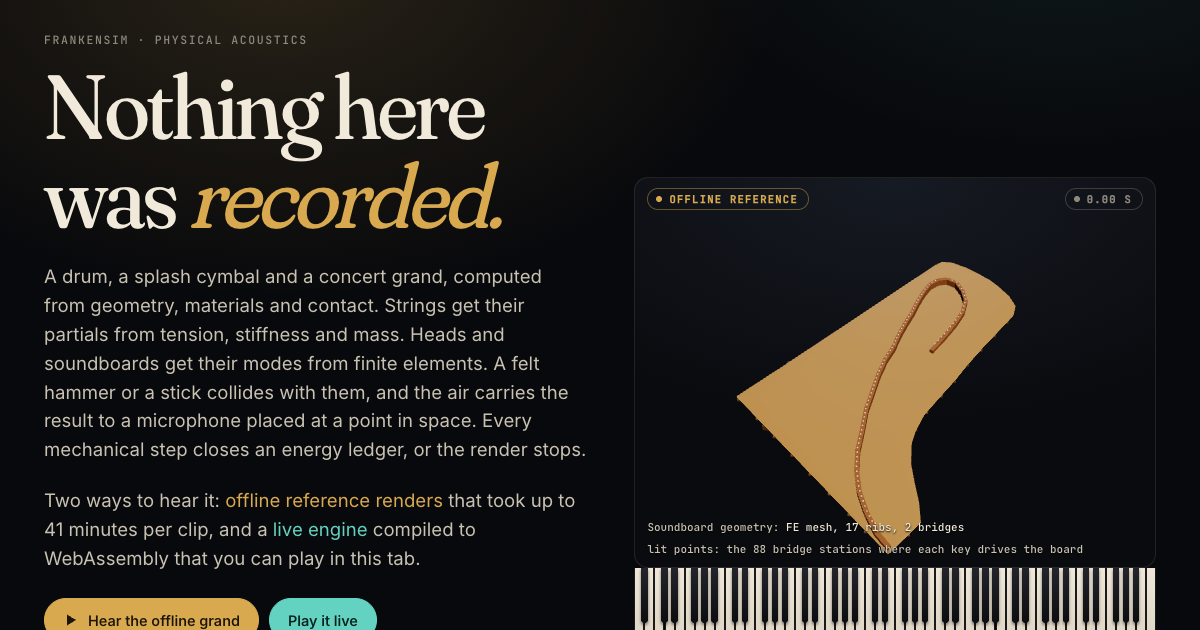
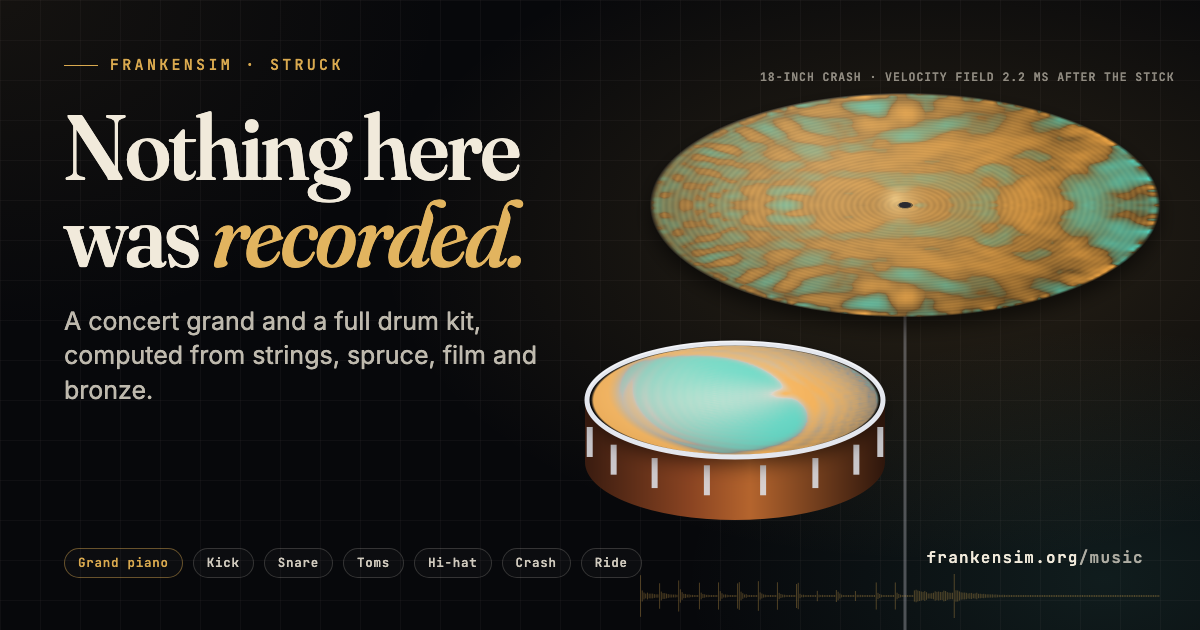
feat(instrument-lab): share cards painted with the solver's own wave fields
og.png (1200x630) and twitter.png (1200x600) show an 18-inch crash and a
snare as the simulation leaves them a few milliseconds after the stick
lands: velocity fields from fs-vkplate (examples/ogfield.rs) with the rigid
motion removed, so only the expanding elastic waves remain, over the site's
headline and the real groove waveform. tools/og_card.py regenerates them;
twitter:image now has its own 2:1 card, and both carry alt text. Live at
frankensim.org/music and frankensim-struck.vercel.app.

diff --git a/apps/instrument-lab/index.html b/apps/instrument-lab/index.html
@@ -14,8 +14,12 @@
   <meta property="og:image" content="%VITE_SITE_URL%og.png" />
   <meta property="og:image:width" content="1200" />
   <meta property="og:image:height" content="630" />
+  <meta property="og:image:alt" content="Nothing here was recorded: an 18-inch crash cymbal and a snare drum painted with their simulated velocity fields a few milliseconds after the stick lands." />
   <meta name="twitter:card" content="summary_large_image" />
-  <meta name="twitter:image" content="%VITE_SITE_URL%og.png" />
+  <meta name="twitter:title" content="Struck — instruments from first principles" />
+  <meta name="twitter:description" content="A drum kit and a concert grand computed from geometry, materials and contact, and graded against real recordings." />
+  <meta name="twitter:image" content="%VITE_SITE_URL%twitter.png" />
+  <meta name="twitter:image:alt" content="An 18-inch crash cymbal and a snare drum painted with their simulated velocity fields." />
 </head>
 <body>
   <a class="skip" href="#main">Skip to content</a>

diff --git a/apps/instrument-lab/tools/og_card.py b/apps/instrument-lab/tools/og_card.py
@@ -1,0 +1,140 @@
+"""Share cards (og.png 1200x630, twitter.png 1200x600) painted with real fs-vkplate fields.
+
+usage:
+  ogfield DIR/fields.json            # crates/fs-vkplate example (OG_TC/OG_TS = snapshot times, s)
+  ffmpeg -i public/audio/kit-groove-ours.m4a -f f32le -ac 1 -ar 8000 DIR/groove.f32
+  uv run --with numpy python tools/og_card.py DIR apps/instrument-lab
+  then screenshot DIR/og.html and DIR/twitter.html at 1200x630 / 1200x600 (headless Chrome,
+  --allow-file-access-from-files) into public/og.png and public/twitter.png.
+"""
+import json, sys, math
+from pathlib import Path
+import numpy as np
+S = Path(sys.argv[1]); L = Path(sys.argv[2])
+fields = json.loads((S / "fields.json").read_text())
+# show the elastic waves: remove each surface's rigid motion (best-fit plane a + b x + c y of the velocity)
+for f in fields.values():
+    X, Y, V = (np.array(f[k]) for k in ("x", "y", "v"))
+    A = np.c_[np.ones_like(X), X, Y]
+    coef, *_ = np.linalg.lstsq(A, V, rcond=None)
+    f["v"] = [float(v) for v in (V - A @ coef)]
+x = np.frombuffer((S / "groove.f32").read_bytes(), "<f4")
+bins = 300
+seg = len(x) // bins
+env = [float(np.abs(x[i * seg:(i + 1) * seg]).max()) for i in range(bins)]
+m = max(env) or 1
+env = [round(e / m, 3) for e in env]
+F = L / "node_modules/@fontsource-variable/fraunces/files"
+I = L / "node_modules/@fontsource-variable/inter/files"
+J = L / "node_modules/@fontsource/jetbrains-mono/files"
+html = r"""<!doctype html><html><head><meta charset="utf-8"><style>
+@font-face { font-family: Fraunces; src: url("file://%FR%/fraunces-latin-full-normal.woff2"); font-style: normal; font-weight: 100 900; }
+@font-face { font-family: Fraunces; src: url("file://%FR%/fraunces-latin-full-italic.woff2"); font-style: italic; font-weight: 100 900; }
+@font-face { font-family: Inter; src: url("file://%IN%/inter-latin-wght-normal.woff2"); font-weight: 100 900; }
+@font-face { font-family: Mono; src: url("file://%JB%/jetbrains-mono-latin-500-normal.woff2"); font-weight: 500; }
+html, body { margin: 0; background: #07080b; }
+#card { position: relative; width: 1200px; height: %H%px; overflow: hidden; background:
+  radial-gradient(900px 520px at 78% 38%, rgba(217,169,79,0.16), rgba(0,0,0,0) 62%),
+  radial-gradient(700px 420px at 92% 92%, rgba(99,210,192,0.10), rgba(0,0,0,0) 60%),
+  radial-gradient(800px 600px at 0% 0%, rgba(140,110,60,0.10), rgba(0,0,0,0) 55%), #07080b; }
+#art { position: absolute; inset: 0; }
+.txt { position: absolute; left: 64px; top: 58px; width: 560px; color: #f1eadb; }
+.eyebrow { font: 500 15px/1 Mono, monospace; letter-spacing: 0.22em; color: #d9a94f; text-transform: uppercase; display: flex; align-items: center; gap: 12px; }
+.eyebrow i { display: inline-block; width: 34px; height: 1px; background: #d9a94f; }
+h1 { font-family: Fraunces, serif; font-weight: 560; font-size: 92px; line-height: 0.95; letter-spacing: -0.02em; margin: 30px 0 0; font-variation-settings: "SOFT" 30, "opsz" 144; }
+h1 em { font-style: italic; color: #e2b45f; font-weight: 520; }
+.sub { font: 400 25px/1.38 Inter, sans-serif; color: rgba(241,234,219,0.78); margin-top: 26px; width: 520px; }
+.chips { position: absolute; left: 64px; bottom: %CHIPB%px; display: flex; gap: 10px; flex-wrap: wrap; width: 640px; }
+.chip { font: 500 12.5px/1 Mono, monospace; letter-spacing: 0.06em; color: rgba(241,234,219,0.86); border: 1px solid rgba(241,234,219,0.18); border-radius: 999px; padding: 8px 13px; background: rgba(255,255,255,0.02); }
+.chip.b { color: #d9a94f; border-color: rgba(217,169,79,0.45); }
+.chip.g { color: #63d2c0; border-color: rgba(99,210,192,0.45); }
+.url { position: absolute; right: 56px; bottom: %URLB%px; font: 500 16px/1 Mono, monospace; letter-spacing: 0.08em; color: rgba(241,234,219,0.7); }
+.url b { color: #f1eadb; font-weight: 500; }
+.cap { position: absolute; font: 500 11.5px/1.3 Mono, monospace; letter-spacing: 0.08em; color: rgba(241,234,219,0.55); text-transform: uppercase; }
+</style></head><body><div id="card">
+<canvas id="art" width="2400" height="%H2%" style="width:1200px;height:%H%px"></canvas>
+<div class="txt"><div class="eyebrow"><i></i>FrankenSim · Struck</div>
+<h1>Nothing here was <em>recorded.</em></h1>
+<div class="sub">A concert grand and a full drum kit, computed from strings, spruce, film and bronze.</div></div>
+<div class="chips"><span class="chip b">Grand piano</span><span class="chip">Kick</span><span class="chip">Snare</span><span class="chip">Toms</span><span class="chip">Hi-hat</span><span class="chip">Crash</span><span class="chip">Ride</span></div>
+<div class="url"><b>frankensim.org</b>/music</div>
+<div class="cap" style="left:%CAPX%px; top:%CAPY%px">18-inch crash · velocity field 2.2 ms after the stick</div>
+</div>
+<script>
+const F = %FIELDS%; const ENV = %ENV%; const H = %H%;
+const cv = document.getElementById('art'); const g = cv.getContext('2d'); g.scale(2, 2);
+function grid(f) { // node lookup on the regular grid
+  const xs = f.x, ys = f.y; let h = Infinity;
+  for (let i = 1; i < xs.length; i++) { const d = Math.abs(xs[i] - xs[i-1]); if (d > 1e-6 && d < h) h = d; }
+  const map = new Map(); let vmax = 0;
+  for (let i = 0; i < xs.length; i++) { map.set(Math.round(xs[i]/h) + ',' + Math.round(ys[i]/h), f.v[i]); vmax = Math.max(vmax, Math.abs(f.v[i])); }
+  return { h, map, vmax, r: f.r };
+}
+function disc(f, cx, cy, rx, ry, base, opts) {
+  const G = grid(f); const W = Math.ceil(rx * 2), Hh = Math.ceil(ry * 2);
+  const img = g.createImageData(W * 2, Hh * 2);
+  for (let py = 0; py < Hh * 2; py++) for (let px = 0; px < W * 2; px++) {
+    const u = (px / 2 - rx) / rx, v = (py / 2 - ry) / ry; const rr = u*u + v*v;
+    if (rr > 1) continue;
+    const X = u * G.r / G.h, Y = -v * G.r / G.h;
+    const i0 = Math.floor(X), j0 = Math.floor(Y), fx = X - i0, fy = Y - j0;
+    const at = (i, j) => G.map.get(i + ',' + j) ?? 0;
+    let val = (1-fx)*(1-fy)*at(i0,j0) + fx*(1-fy)*at(i0+1,j0) + (1-fx)*fy*at(i0,j0+1) + fx*fy*at(i0+1,j0+1);
+    if (opts.hole && rr < opts.hole) continue;
+    const s = Math.sign(val) * Math.pow(Math.min(1, Math.abs(val) / (G.vmax * opts.sat)), 0.55);
+    // base material with radial shading and lathing rings
+    const shade = 0.62 + 0.38 * (1 - rr) + 0.10 * (-u * 0.6 - v * 0.8);
+    const ring = opts.lathe ? 0.06 * Math.sin(Math.sqrt(rr) * 260) : 0;
+    let [r0, g0, b0] = base.map(c => c * (shade + ring));
+    const a = Math.abs(s);
+    const [cr, cg, cb] = s > 0 ? [255, 176, 72] : [80, 220, 200];
+    const k = Math.min(1, a * opts.gain);
+    const o = 4 * (py * W * 2 + px);
+    img.data[o] = r0 * (1 - k) + cr * k; img.data[o+1] = g0 * (1 - k) + cg * k; img.data[o+2] = b0 * (1 - k) + cb * k;
+    const edge = Math.min(1, (1 - Math.sqrt(rr)) * 60);
+    img.data[o+3] = 255 * edge;
+  }
+  const off = document.createElement('canvas'); off.width = W * 2; off.height = Hh * 2;
+  off.getContext('2d').putImageData(img, 0, 0);
+  g.save(); g.shadowColor = 'rgba(0,0,0,0.6)'; g.shadowBlur = 40; g.shadowOffsetY = 18;
+  g.drawImage(off, cx - rx, cy - ry, W, Hh); g.restore();
+  // specular sheen
+  const sh = g.createRadialGradient(cx - rx * 0.35, cy - ry * 0.45, 0, cx - rx * 0.35, cy - ry * 0.45, rx * 0.9);
+  sh.addColorStop(0, 'rgba(255,240,210,' + opts.sheen + ')'); sh.addColorStop(1, 'rgba(255,240,210,0)');
+  g.save(); g.beginPath(); g.ellipse(cx, cy, rx, ry, 0, 0, Math.PI * 2); g.clip(); g.fillStyle = sh; g.fillRect(cx - rx, cy - ry, 2 * rx, 2 * ry); g.restore();
+}
+// faint measurement grid
+g.strokeStyle = 'rgba(241,234,219,0.035)'; g.lineWidth = 1;
+for (let x = 0; x < 1200; x += 40) { g.beginPath(); g.moveTo(x + 0.5, 0); g.lineTo(x + 0.5, H); g.stroke(); }
+for (let y = 0; y < H; y += 40) { g.beginPath(); g.moveTo(0, y + 0.5); g.lineTo(1200, y + 0.5); g.stroke(); }
+// crash cymbal on its stand, then the snare in front
+const CY = %CRASHY%;
+g.strokeStyle = 'rgba(200,200,210,0.35)'; g.lineWidth = 3; g.beginPath(); g.moveTo(905, CY + 10); g.lineTo(905, H); g.stroke();
+disc(F.crash, 905, CY, 255, 112, [176, 128, 62], { sat: 0.45, gain: 0.9, lathe: true, sheen: 0.22, hole: 0.0009 });
+// bell
+const bell = g.createRadialGradient(895, CY - 6, 2, 905, CY, 40); bell.addColorStop(0, 'rgba(255,226,160,0.55)'); bell.addColorStop(1, 'rgba(160,110,50,0)');
+g.fillStyle = bell; g.beginPath(); g.ellipse(905, CY, 44, 19, 0, 0, Math.PI * 2); g.fill();
+g.fillStyle = '#2a2a30'; g.beginPath(); g.ellipse(905, CY, 6, 3, 0, 0, Math.PI * 2); g.fill();
+// snare: shell, hoop, head
+const SX = 735, SY = %SNAREY%, SR = 150, SRY = 58, DEPTH = 62;
+const shell = g.createLinearGradient(SX - SR, 0, SX + SR, 0);
+shell.addColorStop(0, '#3a1c10'); shell.addColorStop(0.35, '#8a4422'); shell.addColorStop(0.55, '#b5652e'); shell.addColorStop(1, '#2e160c');
+g.fillStyle = shell; g.beginPath(); g.ellipse(SX, SY + DEPTH, SR, SRY, 0, 0, Math.PI); g.lineTo(SX - SR, SY); g.ellipse(SX, SY, SR, SRY, 0, Math.PI, 0, true); g.closePath(); g.fill();
+for (let i = 0; i < 8; i++) { const ang = Math.PI * (0.08 + 0.84 * i / 7); const lx = SX - SR * Math.cos(ang); g.fillStyle = 'rgba(225,228,235,0.85)'; g.fillRect(lx - 3, SY + 14 + Math.sin(ang) * SRY * 0.9, 6, 30); }
+disc(F.snare, SX, SY, SR - 6, SRY - 3, [228, 224, 214], { sat: 0.6, gain: 0.8, lathe: false, sheen: 0.18 });
+g.strokeStyle = '#e4e7ee'; g.lineWidth = 5; g.beginPath(); g.ellipse(SX, SY, SR - 2, SRY - 1, 0, 0, Math.PI * 2); g.stroke();
+g.strokeStyle = 'rgba(255,255,255,0.6)'; g.lineWidth = 1.2; g.beginPath(); g.ellipse(SX, SY - 1.5, SR - 2, SRY - 1, 0, Math.PI * 1.05, Math.PI * 1.95); g.stroke();
+// the groove waveform along the bottom
+const WY = H - 34, WH = 22;
+g.fillStyle = 'rgba(217,169,79,0.32)';
+for (let i = 0; i < ENV.length; i++) { const x = 640 + i * (520 / ENV.length); const h = Math.max(1, ENV[i] * WH); g.fillRect(x, WY - h, 520 / ENV.length * 0.6, 2 * h); }
+</script></body></html>"""
+for H, name in ((630, "og.html"), (600, "twitter.html")):
+    s = html.replace("%FR%", str(F)).replace("%IN%", str(I)).replace("%JB%", str(J))
+    s = s.replace("%FIELDS%", json.dumps(fields)).replace("%ENV%", json.dumps(env))
+    s = s.replace("%H2%", str(2 * H)).replace("%H%", str(H))
+    s = s.replace("%CRASHY%", str(205 if H == 630 else 196)).replace("%SNAREY%", str(400 if H == 630 else 382))
+    s = s.replace("%CHIPB%", str(52 if H == 630 else 46)).replace("%URLB%", str(64 if H == 630 else 58))
+    s = s.replace("%CAPX%", "760").replace("%CAPY%", str(70 if H == 630 else 64))
+    (S / name).write_text(s)
+print("ok")

diff --git a/crates/fs-vkplate/examples/ogfield.rs b/crates/fs-vkplate/examples/ogfield.rs
@@ -1,0 +1,41 @@
+//! Velocity fields of the crash and the snare batter shortly after the stick lands (share-image art).
+//! usage: ogfield OUT.json
+use fs_vkplate::*;
+use std::fmt::Write;
+
+fn snapshot(p: &mut kit::Piece, body: usize, t: f64) -> (Vec<[f64; 2]>, Vec<f64>, f64) {
+    let ins = &mut p.instrument;
+    let mut out = vec![0.0; ins.mics.len()];
+    let steps = (t * ins.rate) as usize;
+    for _ in 0..steps {
+        ins.step(&mut out);
+    }
+    let b = &ins.bodies[body];
+    let k = 1.0 / ins.rate;
+    let v: Vec<f64> = (0..b.n).map(|i| (b.w[i] - b.wp[i]) / k).collect();
+    let r = b.xy.iter().map(|p| (p[0] * p[0] + p[1] * p[1]).sqrt()).fold(0.0, f64::max);
+    (b.xy.clone(), v, r)
+}
+
+fn main() {
+    let path = std::env::args().nth(1).expect("OUT.json");
+    let mut crash = kit::cymbal(&kit::crash(), &[(0.0005, 6.0, 0.9, 0.008)]).unwrap();
+    let tc: f64 = std::env::var("OG_TC").ok().and_then(|s| s.parse().ok()).unwrap_or(0.002);
+    let ts: f64 = std::env::var("OG_TS").ok().and_then(|s| s.parse().ok()).unwrap_or(0.0035);
+    let (cxy, cv, cr) = snapshot(&mut crash, 0, tc);
+    let mut snare = kit::drum(&kit::snare_wires_off(), &[(0.0005, 4.5)]).unwrap();
+    let (sxy, sv, sr) = snapshot(&mut snare, 0, ts);
+    let mut s = String::from("{");
+    for (name, xy, v, r) in [("crash", &cxy, &cv, cr), ("snare", &sxy, &sv, sr)] {
+        write!(s, "\"{name}\":{{\"r\":{r},\"x\":[").unwrap();
+        s += &xy.iter().map(|p| format!("{:.4}", p[0])).collect::<Vec<_>>().join(",");
+        s += "],\"y\":[";
+        s += &xy.iter().map(|p| format!("{:.4}", p[1])).collect::<Vec<_>>().join(",");
+        s += "],\"v\":[";
+        s += &v.iter().map(|x| format!("{:.4e}", x)).collect::<Vec<_>>().join(",");
+        s += "]},";
+    }
+    s.pop();
+    s += "}";
+    std::fs::write(path, s).unwrap();
+}
